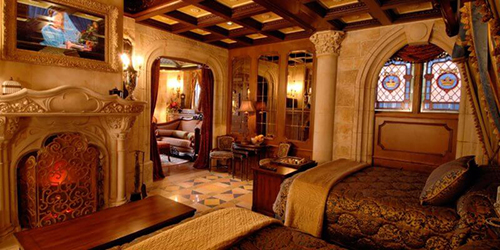
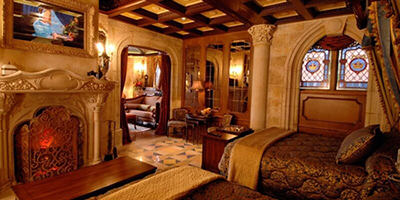
adjusted images

diff --git a/js/main.js b/js/main.js
@@ -62,10 +62,11 @@ function hotelInfo(event){
 
 
     let photo = document.createElement("IMG")
+    photo.setAttribute("id", "pictures")
     photo.setAttribute("class", "images")
     photo.setAttribute("src", `${hotelChoice.picture}`)
     photo.setAttribute("alt", "Hotel Room")
-    photo.setAttribute("id", "pictures")
+    
    
    document.querySelector("#hotelName").textContent = `${hotelChoice.name} Hotel`
    document.querySelector("#address").textContent = `${hotelChoice.address}`
@@ -73,13 +74,13 @@ function hotelInfo(event){
    document.querySelector("#gym").textContent = `${hotelChoice.gym}`
    document.querySelector("#spaType").textContent = `${hotelChoice.spaType}`
    document.querySelector("#type").textContent = `${hotelChoice.roomType}`
-   document.body.appendChild(photo) 
+   document.body.append(photo) 
    console.log(photo)
    
    //document.querySelector("#picture").textContent = `${hotelChoice.picture}`
    //document.querySelector("#picture").appendChild(photo)
-   
-   
+   //document.body.appendChild(photo)
+  // document.getElementById("picture").append(photo)
    
    
 

diff --git a/css/main.css b/css/main.css
@@ -113,11 +113,12 @@ figure.heroimage {width: 100%;  margin: 0px auto;}
 }
 
 .images {
-    margin: 20px auto; 
-    width: 600px; 
-    height: 600px; 
+    margin: 5px auto; 
+    width: 500; 
+    height: 300px; 
     margin-bottom: 20px; 
     z-index: 1000; 
+    padding: 20px; 
 }
 
 .copyright {
